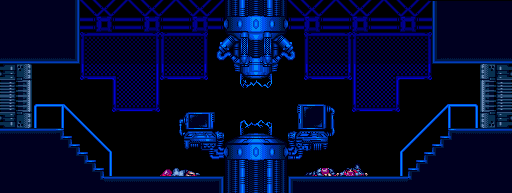
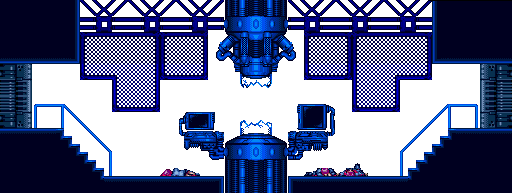
Minor changes: -Added transparency to zone backgrounds -Fixed platform bug where they moved around when colliding w/ the player (platfomr needs to ingore collision events)

diff --git a/Ivy/src/Platform.cs b/Ivy/src/Platform.cs
@@ -40,7 +40,14 @@ namespace Ivy
 
         public override void ReceiveMessage(Message msg)
         {
-            base.ReceiveMessage(msg);
+            if (msg.Type == MessageType.CollideWithEntity)
+            {
+                // Ignore this message!
+            }
+            else
+            {
+                base.ReceiveMessage(msg);
+            }
         }
     }
 }

diff --git a/Ceres/src/Ceres.cs b/Ceres/src/Ceres.cs
@@ -34,7 +34,7 @@ namespace Ceres
 
             // Add player
 
-            WorldZone shaftZone = new WorldZone(@"levels/stairs");
+            WorldZone shaftZone = new WorldZone(@"levels/shaft");
 
             // TODO: Find out if components need to be individually initialized here,
             //       XNA may provide a way of doing this.
